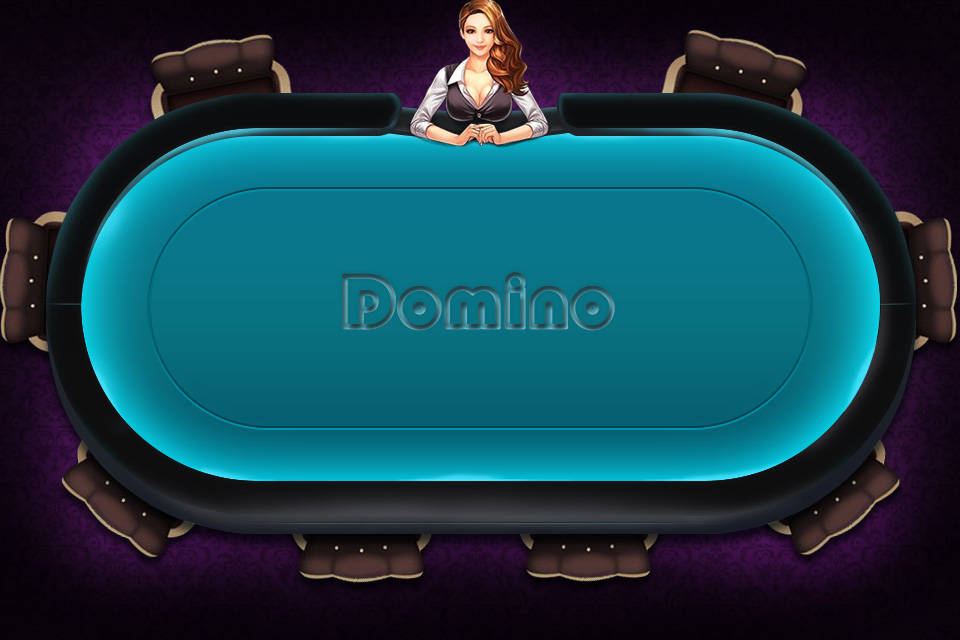
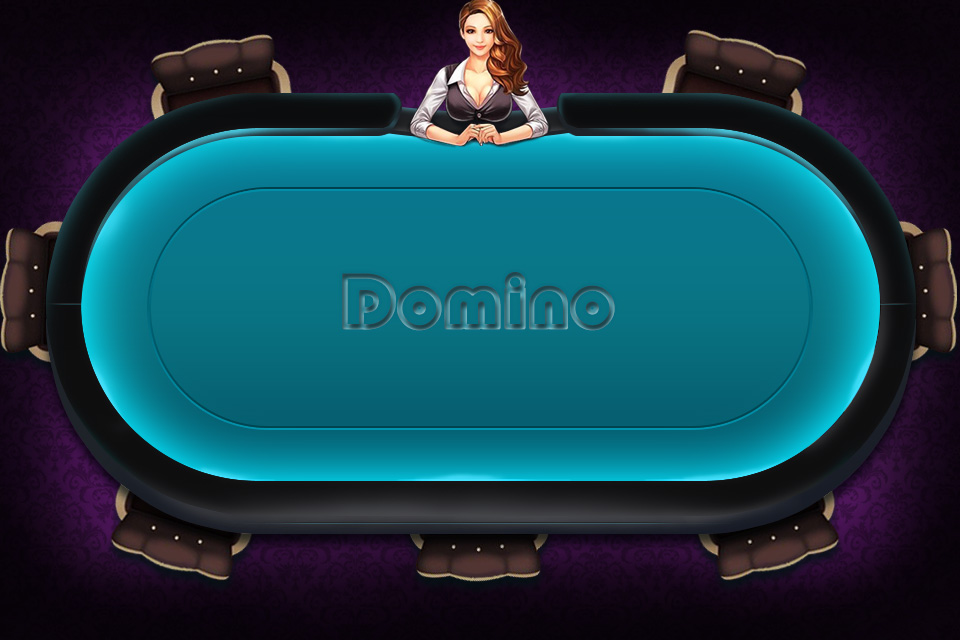
domino  deal card

diff --git a/public/games/domino/controller.js b/public/games/domino/controller.js
@@ -17,34 +17,50 @@ module.exports = function(App, Opts) {
             var index, user = data;
             if(data['user'])user = data['user'];
             if(user.seatindex){
-                index = _.findLastIndex(domino.seats, {sid: data.user.seatindex});
-                _.extend(domino.seats[index], _.pick(data.user, 'name', 'point'));
+                index = _.findLastIndex(domino.seats, {sid: user.seatindex});
+                _.extend(domino.seats[index], _.pick(user, 'name', 'point'));
             }else {
                 for (var id in user) {
                     index = _.findLastIndex(domino.seats, {sid: user[id].seatindex});
-                    _.extend(domino.seats[index], _.pick(user[id], 'name', 'point'));
+                    _.extend(domino.seats[index], _.pick(user[id], 'name', 'buy'));
                 }
             }
             m.redraw();
         }
 
         function blinds(data){
-            //for(var id in data.game){
-            //
-            //}
+            var index;
+            for(var id in data.game){
+                index = _.findLastIndex(domino.seats, {sid: data.game[id].seatindex});
+                _.extend(domino.seats[index], _.pick(data.game[id], 'betstake'));
+            }
+            m.redraw();
         }
 
         client.on('userjoin', redraw);
         client.on('broadcast_userjoin', redraw);
         client.on('broadcast_blinds', blinds);
+        client.on('cards', function (data) {
+            console.log('domino.sid: ', domino.sid);
+            var index = _.findLastIndex(domino.seats, {sid: domino.sid});
+            _.extend(domino.seats[index], _.pick(data.user, 'cards', 'cardvalues'));
+            m.redraw();
+        });
+        client.on('broadcast_cards', function (data) {
+            var index = _.findLastIndex(domino.seats, {sid: data.game.seatindex});
+            domino.seats[index].cardsnum = (domino.seats[index].cardsnum || 0) + data.game.cardsnum;
+            m.redraw();
+        });
 
         var domino = {
+            sid: 0,
             timeout: 15,
-            seats: [{sid: 1}, {sid: 2}, {sid: 3}, {sid: 4}, {sid: 5}, {sid: 6}]
+            seats: [{sid: 1}, {sid: 2}, {sid: 3}, {sid: 4}, {sid: 5}, {sid: 6}, {sid: 7}]
         };
 
         domino.seat = function (e) {
             clearInterval(t);
+            domino.sid = +e.target.id;
             client.send('userjoin', {seatindex: +e.target.id, buy: 2000});
         };
 

diff --git a/public/games/domino/styles/main.css b/public/games/domino/styles/main.css
@@ -1,19 +1,34 @@
 main.domino-table{
     height: 640px;
     width: 960px;
-    background: url('./img/table-bg.jpg') no-repeat;
+    background: url('./img/table-bg.jpg') no-repeat 50%;
 }
 .domino-user{
     width: 131px;
     height: 131px;
     position: absolute;
-    background: url('./img/user.png') no-repeat;
-}
-.domino-user.user-point{
     text-align: center;
+    background: url('./img/user.png') no-repeat 50%;
+}
+.domino-user .user-name{
+    color: #C6D00B;
+}
+.domino-user .user-point{
+    position: absolute;
+    left: 0;
     bottom: 0;
-    margin: auto;
-    display: block;
+    width: 131px;
+    color: #FF0055;
+}
+.domino-user .user-cards{
+    width: 200px;
+    left: -30px;
+    position: absolute;
+}
+img.card{
+    width: 45px;
+}
+img.card-bg{
 }
 .domino-seat{
     width: 131px;
@@ -21,39 +36,68 @@ main.domino-table{
     position: absolute;
     background: url('./img/seat-1.png');
 }
+.user-bet{
+    position: absolute;
+}
+.user-bet .bet-icon{
+    float: left;
+    width: 27px;
+    height: 25px;
+    background: url('./img/chip_yellow.png');
+}
+.user-bet .bet-number{
+    position: absolute;
+    left: 10px;
+    width: 98px;
+    height: 25px;
+    padding: 0 20px;
+    background: url('./img/bet-bg.png') round;
+    color: white;
+    z-index: -1;
+}
 .seat-1{
     left: 670px;
     top: 10px;
 }
+.seat-1 .user-bet{
+    bottom: -20px;
+}
 .seat-2{
     left: 820px;
-    top: 210px;
+    top: 225px;
 }
-.seat-2.user-bet{
-    position: absolute;
+.seat-2 .user-bet{
     left: -80px;
 }
 .seat-3{
-    left: 730px;
-    top: 425px;
+    left: 700px;
+    top: 450px;
+}
+.seat-3 .user-bet{
+    top: -30px;
+    margin-left: 8px;
 }
 .seat-4{
-    left: 430px;
-    top: 425px;
+    left: 415px;
+    top: 450px;
 }
-.seat-4.user-bet{
-    position: absolute;
-    top: -20px;
+.seat-4 .user-bet{
+    top: -30px;
+    margin-left: 8px;
 }
 .seat-5{
     left: 130px;
-    top: 425px;
+    top: 450px;
+}
+.seat-5 .user-bet{
+    top: -30px;
+    margin-left: 8px;
 }
 .seat-6{
     left: 20px;
-    top: 210px;
+    top: 225px;
 }
 .seat-7{
-    left: 40px;
+    left: 160px;
     top: 10px;
 }

diff --git a/public/games/domino/view.js b/public/games/domino/view.js
@@ -6,9 +6,14 @@ module.exports = function(App) {
                 if(seat.name){
                     return m('DIV.domino-user seat-' + seat.sid, [
                         m('SPAN.user-name', seat.name),
-                        m('SPAN.user-point', seat.point),
-                        m('DIV.user-bet', seat.bet || 0)
-                ]);
+                        m('SPAN.user-point', seat.point || seat.buy),
+                        m('DIV.user-bet', [m('SPAN.bet-icon'), m('SPAN.bet-number', seat.betstake || 0)]),
+                        m('DIV.user-cards', seat.cards ? seat.cards.map(function (card) {
+                            return m('img.card', {src: '/games/domino/styles/img/' + card + '.png'});
+                        }) : _.times(seat.cardsnum || 0, function () {
+                            return m('img.card-bg', {src: '/games/domino/styles/img/card-bg.png'})
+                        }))
+                    ]);
                 }else{
                     return m('DIV.domino-seat seat-' + seat.sid, {onclick: ctr.seat, id: seat.sid});
                 }
